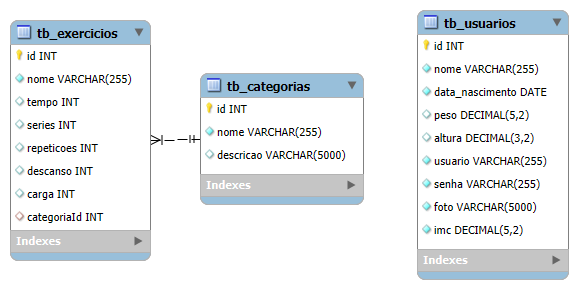
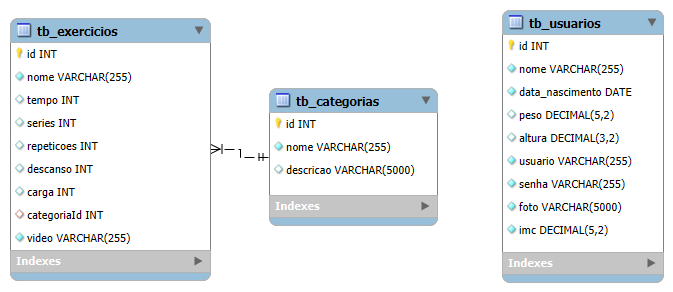
:books: Alterado Imagens DER e Diagrama

diff --git a/src/usuario/services/usuario.service.ts b/src/usuario/services/usuario.service.ts
@@ -71,13 +71,19 @@ export class UsuarioService {
 
   private calcularImc(peso: number, altura: number): number {
     if (isNaN(peso) || isNaN(altura)) {
-      throw new HttpException("Peso e altura devem ser números.", HttpStatus.BAD_REQUEST);
+      throw new HttpException(
+        'Peso e altura devem ser números.',
+        HttpStatus.BAD_REQUEST,
+      );
     }
     if (peso <= 0 || altura <= 0) {
-        throw new HttpException("Peso e altura devem ser maiores que zero.", HttpStatus.BAD_REQUEST);
+      throw new HttpException(
+        'Peso e altura devem ser maiores que zero.',
+        HttpStatus.BAD_REQUEST,
+      );
     }
     if (peso > 400) {
-        throw new HttpException("Peso inválido.", HttpStatus.BAD_REQUEST);
+      throw new HttpException('Peso inválido.', HttpStatus.BAD_REQUEST);
     }
     return parseFloat((peso / (altura * altura)).toFixed(2));
   }

diff --git a/src/exercicio/services/exercicio.service.ts b/src/exercicio/services/exercicio.service.ts
@@ -9,7 +9,7 @@ export class ExercicioService {
   constructor(
     @InjectRepository(Exercicio)
     private exercicioRepository: Repository<Exercicio>,
-    private categoriaService: CategoriaService
+    private categoriaService: CategoriaService,
   ) {}
 
   async findAll(): Promise<Exercicio[]> {

diff --git a/README.md b/README.md
@@ -43,7 +43,7 @@ A API **FitSync** foi desenvolvida para fornecer uma plataforma fitness personal
 
 ## 3. Diagrama de Classes
 
-<img src="./src/imgs/diagrama_(2).png"/>
+<img src="./src/imgs/diagrama.png"/>
 
 ------
 
